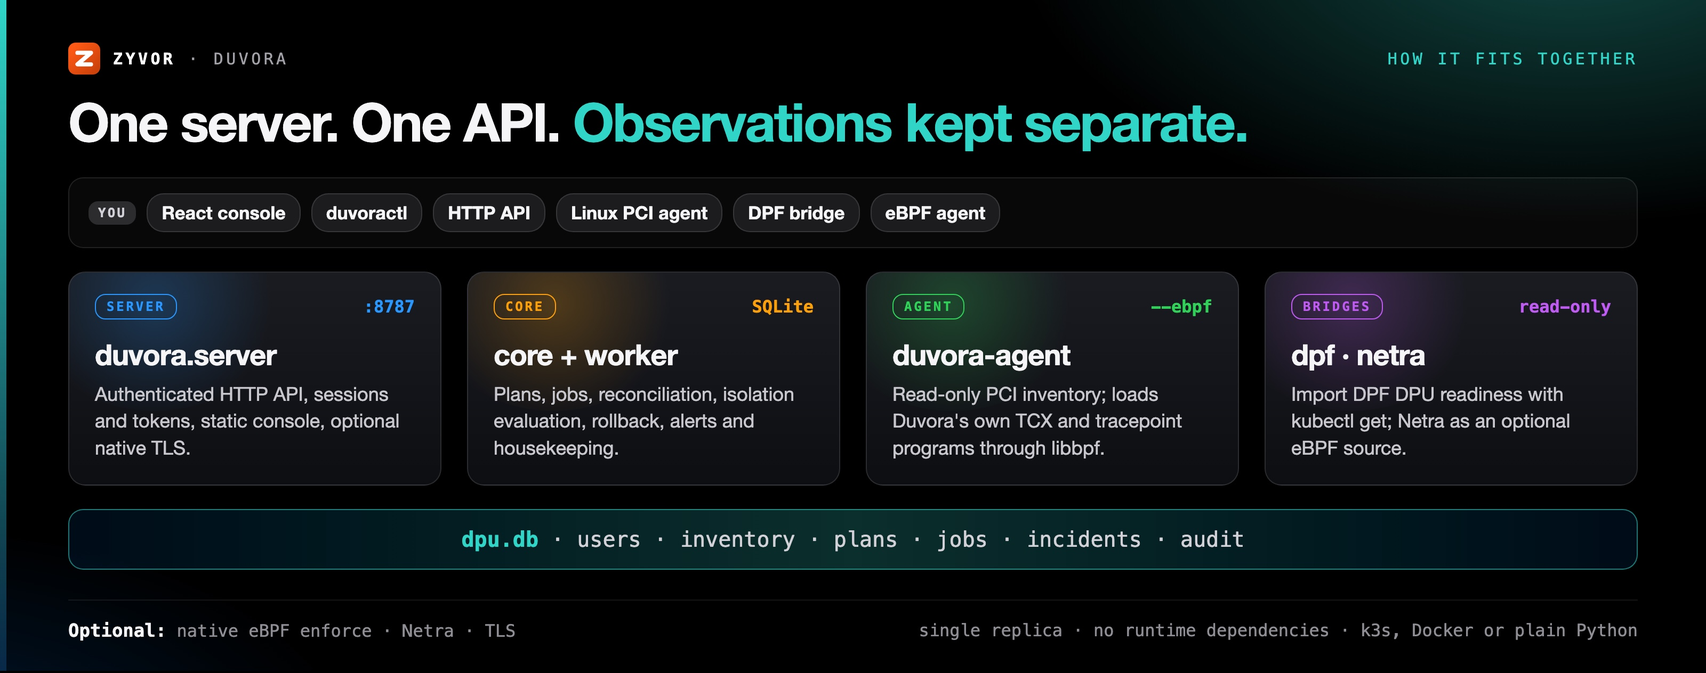
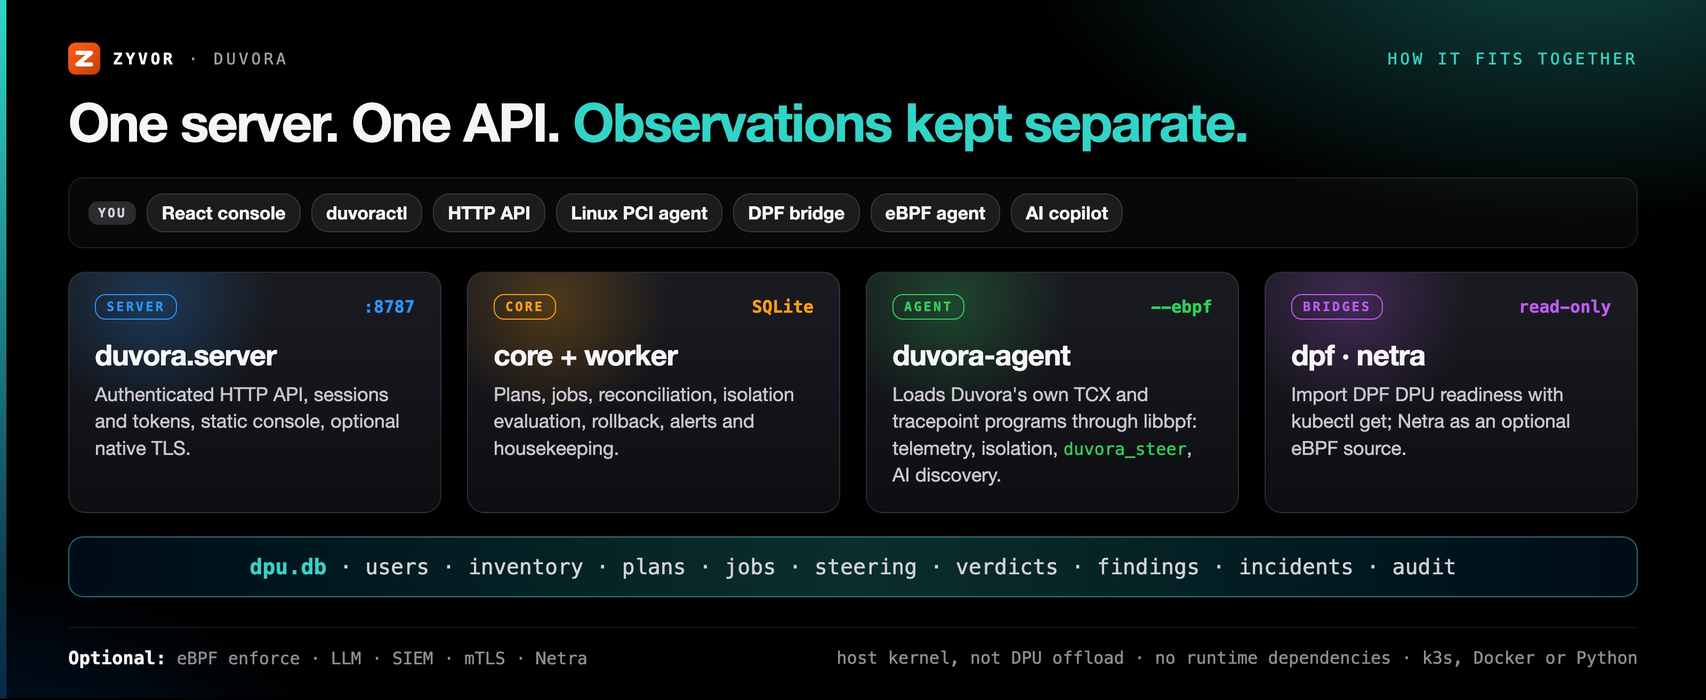
docs(readme): 0.5.0 visuals: steering, AI security, console gallery
- New cards: traffic steering pipeline and AI security (docs/ux/readme-steering, readme-ai-security).
- Capabilities card gains Steering and AI security; how-it-works shows duvora_steer, copilot and findings; hero mentions steering and AI.
- Console gallery of six demo-server screenshots, rebuilt by docs/ux/build-console-shots.cjs.
- README: Steering and AI security sections, new Why rows, mermaid with the agent, steering and copilot, quick links.

diff --git a/docs/ux/readme-steering.html b/docs/ux/readme-steering.html
@@ -1,0 +1,89 @@
+<!doctype html>
+<html lang="en">
+<head>
+<meta charset="utf-8">
+<title>Duvora: traffic steering</title>
+<!-- README card, 1600 wide at 2x. Build: ./docs/ux/build-readme-cards.sh -->
+<style>
+  :root { --acc:#30d5c8; --sans:'SF Pro Display','Helvetica Neue',Helvetica,Arial,sans-serif; --mono:'SF Mono',Menlo,Consolas,monospace; }
+  * { box-sizing:border-box; } html,body { margin:0; padding:0; }
+  body { width:1600px; min-height:400px; overflow:hidden; background:#000; color:#f5f5f7; font-family:var(--sans); position:relative; }
+  .glow { position:absolute; inset:0; background:radial-gradient(800px 420px at 92% -10%, color-mix(in srgb, var(--acc) 34%, transparent), transparent 65%),
+    radial-gradient(700px 380px at -5% 115%, rgba(0,113,227,.22), transparent 60%); }
+  .rail { position:absolute; left:0; top:0; bottom:0; width:6px; background:linear-gradient(180deg, var(--acc), rgba(41,151,255,.2)); }
+  .wrap { position:relative; padding:40px 64px 28px; }
+  .top { display:flex; align-items:center; justify-content:space-between; }
+  .brand { display:flex; align-items:center; gap:12px; font-family:var(--mono); font-size:15px; letter-spacing:.18em; text-transform:uppercase; color:#a1a1a6; }
+  .brand b { color:#fff; }
+  .kicker { font-family:var(--mono); font-size:15px; letter-spacing:.18em; text-transform:uppercase; color:var(--acc); }
+  h1 { margin:18px 0 0; font-size:50px; line-height:1.05; font-weight:800; letter-spacing:-.03em; white-space:nowrap; }
+  h1 em { font-style:normal; color:var(--acc); }
+  .foot { margin-top:28px; display:flex; justify-content:space-between; align-items:center; font-family:var(--mono); font-size:16px; color:#8e8e93; padding-top:18px; border-top:1px solid rgba(255,255,255,.08); }
+  .foot b { color:#f5f5f7; font-size:17px; }
+  .card { border-radius:16px; background:linear-gradient(180deg, rgba(28,30,36,.92), rgba(14,15,19,.95)); border:1px solid rgba(255,255,255,.12); position:relative; overflow:hidden; }
+  .tag { display:inline-block; font-family:var(--mono); font-size:12px; font-weight:700; letter-spacing:.16em; text-transform:uppercase; padding:4px 10px; border-radius:10px; border:1px solid currentColor; }
+
+  .flow { margin-top:30px; display:grid; grid-template-columns:250px 40px 380px 40px 1fr; align-items:stretch; }
+  .arrow { display:flex; align-items:center; justify-content:center; color:var(--acc); font-size:30px; font-weight:700; }
+  .box { padding:22px 24px; }
+  .box h2 { margin:14px 0 10px; font-size:26px; font-weight:700; letter-spacing:-.02em; }
+  .box p { margin:0; font-size:17px; line-height:1.4; color:#c7c7cc; }
+  .mono { font-family:var(--mono); font-size:15px; color:#d1d1d6; line-height:1.7; }
+  .rules { margin-top:6px; }
+  .rule { display:flex; gap:12px; align-items:center; padding:7px 0; border-bottom:1px solid rgba(255,255,255,.07); font-family:var(--mono); font-size:15px; color:#d1d1d6; }
+  .rule:last-child { border-bottom:0; }
+  .rule .p { color:#8e8e93; width:30px; }
+  .rule .a { margin-left:auto; font-weight:700; }
+  .lanes { display:grid; grid-template-rows:repeat(4,1fr); gap:10px; }
+  .lane { display:flex; align-items:center; gap:16px; padding:0 20px; border-radius:14px; border:1px solid color-mix(in srgb, var(--c) 45%, transparent);
+    background:linear-gradient(90deg, color-mix(in srgb, var(--c) 18%, transparent), rgba(14,15,19,.6)); }
+  .lane b { font-family:var(--mono); font-size:16px; letter-spacing:.14em; text-transform:uppercase; color:var(--c); width:92px; }
+  .lane span { font-size:17px; color:#d1d1d6; }
+  .lane .chain { margin-left:auto; font-family:var(--mono); font-size:14px; color:#f5f5f7; }
+  .lane .chain i { font-style:normal; color:var(--c); padding:0 6px; }
+
+  .life { margin-top:22px; display:grid; grid-template-columns:repeat(4,1fr); gap:20px; }
+  .step { padding:18px 22px; }
+  .step h3 { margin:12px 0 6px; font-size:22px; font-weight:700; }
+  .step p { margin:0; font-size:16px; line-height:1.4; color:#c7c7cc; }
+  .step code { display:inline-block; margin-top:10px; font-family:var(--mono); font-size:13.5px; color:var(--c); padding:4px 9px; border-radius:8px; background:rgba(255,255,255,.05); border:1px solid rgba(255,255,255,.1); }
+</style>
+</head>
+<body>
+<div class="glow"></div><div class="rail"></div>
+<div class="wrap">
+<div class="top"><div class="brand"><svg viewBox="0 0 64 64" width="30" height="30" aria-hidden="true"><defs><linearGradient id="zb" x1="8" y1="8" x2="56" y2="56" gradientUnits="userSpaceOnUse"><stop offset="0" stop-color="#ff5a15"/><stop offset="1" stop-color="#cc420a"/></linearGradient></defs><rect width="64" height="64" rx="15" fill="url(#zb)"/><path d="M18.5,20.5 45.5,20.5 18.5,43.5 45.5,43.5" fill="none" stroke="#fff" stroke-width="8.3" stroke-linecap="round" stroke-linejoin="round"/></svg><b>Zyvor</b><span>&middot;</span><span>Duvora</span></div><div class="kicker">Traffic steering</div></div>
+<h1>Every packet, one rule. <em>Shadow before it bites.</em></h1>
+
+<div class="flow">
+  <div class="card box" style="--c:#2997ff"><span class="tag" style="color:#2997ff">Packet</span><h2>On the uplink</h2>
+    <div class="mono">tcx ingress / egress<br>proto &middot; src &middot; dst<br>sport &middot; dport<br>direction</div></div>
+  <div class="arrow">&rarr;</div>
+  <div class="card box" style="--c:#30d5c8"><span class="tag" style="color:#30d5c8">duvora_steer</span><h2>First match wins</h2>
+    <div class="rules">
+      <div class="rule"><span class="p">10</span>dst 185.220.101.0/24<span class="a" style="color:#ff453a">drop</span></div>
+      <div class="rule"><span class="p">20</span>tcp dport 443 &middot; LLM SNI<span class="a" style="color:#ff9f0a">inspect</span></div>
+      <div class="rule"><span class="p">30</span>dst 10.0.0.0/8<span class="a" style="color:#30d158">allow</span></div>
+      <div class="rule"><span class="p">&mdash;</span>default<span class="a" style="color:#8e8e93">bypass</span></div>
+    </div></div>
+  <div class="arrow">&rarr;</div>
+  <div class="lanes">
+    <div class="lane" style="--c:#8e8e93"><b>Bypass</b><span>Pass untouched; upgrades bypass automatically</span></div>
+    <div class="lane" style="--c:#30d158"><b>Allow</b><span>Pass and count per rule</span></div>
+    <div class="lane" style="--c:#ff9f0a"><b>Inspect</b><span>Sample the flow</span><div class="chain">256-byte payload<i>&rarr;</i>LLM analyzer<i>&rarr;</i>findings &amp; incidents</div></div>
+    <div class="lane" style="--c:#ff453a"><b>Drop</b><span>Would-drop in shadow, dropped in enforce</span></div>
+  </div>
+</div>
+
+<div class="life">
+  <div class="card step" style="--c:#30d5c8"><span class="tag" style="color:#30d5c8">1 &middot; Plan</span><h3>Preview by replay</h3><p>Recent flows replayed against the new rule set before anything changes.</p><code>duvoractl steer SET DEVICE</code></div>
+  <div class="card step" style="--c:#64d2ff"><span class="tag" style="color:#64d2ff">2 &middot; Shadow</span><h3>Count, never block</h3><p>Verdicts and would-drop counters per rule, from the host kernel.</p><code>APPLY STEERING SHADOW</code></div>
+  <div class="card step" style="--c:#ff9f0a"><span class="tag" style="color:#ff9f0a">3 &middot; Enforce</span><h3>Leased, fail-safe</h3><p>Falls back to shadow if the lease lapses or the controller is unreachable.</p><code>ENFORCE STEERING ON &lt;dev&gt;</code></div>
+  <div class="card step" style="--c:#bf5af2"><span class="tag" style="color:#bf5af2">4 &middot; Escape</span><h3>Bypass or roll back</h3><p>One typed confirmation; rollback restores the previous set in shadow.</p><code>BYPASS &lt;dev&gt;</code></div>
+</div>
+
+<div class="foot"><b>SSH and the control plane are always exempt</b><span>host-kernel eBPF on the node &#183; simulation for modeled DPUs &#183; not DPU offload</span></div>
+</div>
+<script>document.body.setAttribute('data-h', Math.ceil(document.querySelector('.wrap').getBoundingClientRect().height));</script>
+</body>
+</html>

diff --git a/docs/ux/readme-ai-security.html b/docs/ux/readme-ai-security.html
@@ -1,0 +1,69 @@
+<!doctype html>
+<html lang="en">
+<head>
+<meta charset="utf-8">
+<title>Duvora: AI security</title>
+<!-- README card, 1600 wide at 2x. Build: ./docs/ux/build-readme-cards.sh -->
+<style>
+  :root { --acc:#ff375f; --sans:'SF Pro Display','Helvetica Neue',Helvetica,Arial,sans-serif; --mono:'SF Mono',Menlo,Consolas,monospace; }
+  * { box-sizing:border-box; } html,body { margin:0; padding:0; }
+  body { width:1600px; min-height:400px; overflow:hidden; background:#000; color:#f5f5f7; font-family:var(--sans); position:relative; }
+  .glow { position:absolute; inset:0; background:radial-gradient(800px 420px at 92% -10%, color-mix(in srgb, var(--acc) 30%, transparent), transparent 65%),
+    radial-gradient(700px 380px at -5% 115%, rgba(0,113,227,.22), transparent 60%); }
+  .rail { position:absolute; left:0; top:0; bottom:0; width:6px; background:linear-gradient(180deg, var(--acc), rgba(41,151,255,.2)); }
+  .wrap { position:relative; padding:40px 64px 28px; }
+  .top { display:flex; align-items:center; justify-content:space-between; }
+  .brand { display:flex; align-items:center; gap:12px; font-family:var(--mono); font-size:15px; letter-spacing:.18em; text-transform:uppercase; color:#a1a1a6; }
+  .brand b { color:#fff; }
+  .kicker { font-family:var(--mono); font-size:15px; letter-spacing:.18em; text-transform:uppercase; color:var(--acc); }
+  h1 { margin:18px 0 0; font-size:50px; line-height:1.05; font-weight:800; letter-spacing:-.03em; white-space:nowrap; }
+  h1 em { font-style:normal; color:var(--acc); }
+  .foot { margin-top:28px; display:flex; justify-content:space-between; align-items:center; font-family:var(--mono); font-size:16px; color:#8e8e93; padding-top:18px; border-top:1px solid rgba(255,255,255,.08); }
+  .foot b { color:#f5f5f7; font-size:17px; }
+  .card { border-radius:16px; background:linear-gradient(180deg, rgba(28,30,36,.92), rgba(14,15,19,.95)); border:1px solid rgba(255,255,255,.12); position:relative; overflow:hidden; }
+  .tag { display:inline-block; font-family:var(--mono); font-size:12px; font-weight:700; letter-spacing:.16em; text-transform:uppercase; padding:4px 10px; border-radius:10px; border:1px solid currentColor; }
+
+  .grid { margin-top:30px; display:grid; grid-template-columns:repeat(3,1fr); gap:22px; }
+  .tile { padding:22px 26px 20px; min-height:206px; }
+  .tile::before { content:''; position:absolute; right:-60px; top:-60px; width:200px; height:200px; border-radius:50%; background:radial-gradient(circle, color-mix(in srgb, var(--c) 30%, transparent), transparent 70%); }
+  .tile .row { display:flex; justify-content:space-between; align-items:center; position:relative; }
+  .tile i { font-style:normal; font-family:var(--mono); font-size:15px; color:#8e8e93; }
+  .tile h2 { margin:14px 0 8px; font-size:26px; font-weight:700; letter-spacing:-.02em; position:relative; }
+  .tile p { margin:0; font-size:17px; line-height:1.4; color:#c7c7cc; position:relative; }
+  .chips { margin-top:14px; display:flex; flex-wrap:wrap; gap:8px; position:relative; }
+  .chips span { font-family:var(--mono); font-size:13.5px; padding:4px 10px; border-radius:10px; background:color-mix(in srgb, var(--c) 14%, transparent); border:1px solid color-mix(in srgb, var(--c) 45%, transparent); color:#f5f5f7; }
+  .posture { display:flex; gap:22px; align-items:center; margin-top:10px; position:relative; }
+  .gauge { width:112px; height:112px; flex:none; }
+  .checks { font-family:var(--mono); font-size:13.5px; line-height:1.65; color:#c7c7cc; }
+  .checks b { display:inline-block; width:12px; height:12px; border-radius:50%; margin-right:8px; vertical-align:-1px; }
+</style>
+</head>
+<body>
+<div class="glow"></div><div class="rail"></div>
+<div class="wrap">
+<div class="top"><div class="brand"><svg viewBox="0 0 64 64" width="30" height="30" aria-hidden="true"><defs><linearGradient id="zb" x1="8" y1="8" x2="56" y2="56" gradientUnits="userSpaceOnUse"><stop offset="0" stop-color="#ff5a15"/><stop offset="1" stop-color="#cc420a"/></linearGradient></defs><rect width="64" height="64" rx="15" fill="url(#zb)"/><path d="M18.5,20.5 45.5,20.5 18.5,43.5 45.5,43.5" fill="none" stroke="#fff" stroke-width="8.3" stroke-linecap="round" stroke-linejoin="round"/></svg><b>Zyvor</b><span>&middot;</span><span>Duvora</span></div><div class="kicker">AI security</div></div>
+<h1>See what talks to models. <em>AI drafts, you apply.</em></h1>
+
+<div class="grid">
+  <div class="card tile" style="--c:#ff375f"><div class="row"><span class="tag" style="color:#ff375f">AI traffic</span><i>inspect rules</i></div><h2>Prompts under watch</h2><p>LLM endpoints by SNI and Host; findings open incidents. Snippets are redacted before storage.</p>
+    <div class="chips"><span>prompt injection</span><span>secrets</span><span>personal data</span></div></div>
+  <div class="card tile" style="--c:#ff9f0a"><div class="row"><span class="tag" style="color:#ff9f0a">Shadow AI</span><i>agent discovery</i></div><h2>Every AI service, found</h2><p>Inference servers, notebooks and GPU workloads on each node; sanction what you expect.</p>
+    <div class="chips"><span>ollama</span><span>vLLM</span><span>Triton</span><span>Jupyter</span></div></div>
+  <div class="card tile" style="--c:#64d2ff"><div class="row"><span class="tag" style="color:#64d2ff">Artifact scans</span><i>deploy gate</i></div><h2>Images and models</h2><p>Code-importing pickles, Keras Lambda layers, embedded secrets, risky image config; deploys can require a pass.</p>
+    <div class="chips"><span>--image</span><span>--model-url</span><span>--file offline</span></div></div>
+  <div class="card tile" style="--c:#bf5af2"><div class="row"><span class="tag" style="color:#bf5af2">Threat intel</span><i>feeds</i></div><h2>Known bad, matched</h2><p>IP, CIDR and domain indicators matched against flows; export a ruleset to steer on.</p>
+    <div class="chips"><span>plain</span><span>CSV</span><span>STIX</span><span>URL or inline</span></div></div>
+  <div class="card tile" style="--c:#30d158"><div class="row"><span class="tag" style="color:#30d158">Playbooks</span><i>draft only</i></div><h2>Ready, never automatic</h2><p>Incidents explain, draft a block or bypass plan and notify; an admin reviews and confirms.</p>
+    <div class="chips"><span>incident</span><span>&rarr; draft plan</span><span>&rarr; human apply</span></div></div>
+  <div class="card tile" style="--c:#2997ff"><div class="row"><span class="tag" style="color:#2997ff">AI posture</span><i>0&ndash;100</i></div>
+    <div class="posture">
+      <svg class="gauge" viewBox="0 0 120 120"><circle cx="60" cy="60" r="50" fill="none" stroke="rgba(255,255,255,.1)" stroke-width="12"/><circle cx="60" cy="60" r="50" fill="none" stroke="#2997ff" stroke-width="12" stroke-linecap="round" stroke-dasharray="267 314" transform="rotate(-90 60 60)"/><text x="60" y="68" text-anchor="middle" font-family="SF Pro Display,Helvetica,Arial" font-size="32" font-weight="800" fill="#fff">85</text></svg>
+      <div class="checks"><div><b style="background:#30d158"></b>Inspection coverage</div><div><b style="background:#30d158"></b>LLM findings 24 h</div><div><b style="background:#ff9f0a"></b>Shadow AI</div><div><b style="background:#30d158"></b>Artifact scans 7 d</div><div><b style="background:#30d158"></b>Threat intel</div><div><b style="background:#30d158"></b>Agent identity</div></div>
+    </div></div>
+</div>
+
+<div class="foot"><b>Copilot over any OpenAI-compatible model</b><span>read-only tools &#183; drafts plans, never applies &#183; works without an LLM</span></div>
+</div>
+<script>document.body.setAttribute('data-h', Math.ceil(document.querySelector('.wrap').getBoundingClientRect().height));</script>
+</body>
+</html>

diff --git a/docs/ux/readme-capabilities.html b/docs/ux/readme-capabilities.html
@@ -23,7 +23,7 @@
   .card { border-radius:16px; background:linear-gradient(180deg, rgba(28,30,36,.92), rgba(14,15,19,.95)); border:1px solid rgba(255,255,255,.12); position:relative; overflow:hidden; }
   .tag { display:inline-block; font-family:var(--mono); font-size:12px; font-weight:700; letter-spacing:.16em; text-transform:uppercase; padding:4px 10px; border-radius:10px; border:1px solid currentColor; }
 
-  .caps { margin-top:30px; display:grid; grid-template-columns:repeat(4,1fr); gap:24px; }
+  .caps { margin-top:30px; display:grid; grid-template-columns:repeat(3,1fr); gap:24px; }
   .cap { padding:24px 26px 18px; }
   .cap::before { content:''; position:absolute; right:-60px; top:-60px; width:200px; height:200px; border-radius:50%; background:radial-gradient(circle, color-mix(in srgb, var(--c) 30%, transparent), transparent 70%); }
   .cap h2 { margin:16px 0 14px; font-size:27px; font-weight:700; letter-spacing:-.02em; }
@@ -36,7 +36,7 @@
 <body>
 <div class="glow"></div><div class="rail"></div>
 <div class="wrap">
-<div class="top"><div class="brand"><svg viewBox="0 0 64 64" width="30" height="30" aria-hidden="true"><defs><linearGradient id="zb" x1="8" y1="8" x2="56" y2="56" gradientUnits="userSpaceOnUse"><stop offset="0" stop-color="#ff5a15"/><stop offset="1" stop-color="#cc420a"/></linearGradient></defs><rect width="64" height="64" rx="15" fill="url(#zb)"/><path d="M18.5,20.5 45.5,20.5 18.5,43.5 45.5,43.5" fill="none" stroke="#fff" stroke-width="8.3" stroke-linecap="round" stroke-linejoin="round"/></svg><b>Zyvor</b><span>&middot;</span><span>Duvora</span></div><div class="kicker">Capabilities at a glance</div></div><h1>Plan it. Isolate it. <em>Prove every change.</em></h1><div class="caps"><div class="card cap" style="--c:#2997ff"><span class="tag" style="color:#2997ff">Inventory</span><h2>DPU fleet</h2><ul><li>Four simulated BlueField DPUs</li><li>Read-only Linux PCI discovery</li><li>Read-only NVIDIA DPF import</li><li>Topology and readiness</li><li>Telemetry history 1h / 24h / 7d</li></ul></div><div class="card cap" style="--c:#ff9f0a"><span class="tag" style="color:#ff9f0a">Change</span><h2>Plan, apply, roll back</h2><ul><li>Expiring, actor-bound plans</li><li>Idempotent apply, revision checks</li><li>Typed confirmations</li><li>Rollback with revision guard</li><li>Job progress survives restart</li></ul></div><div class="card cap" style="--c:#30d158"><span class="tag" style="color:#30d158">eBPF</span><h2>Native agent</h2><ul><li>TCX throughput and top talkers</li><li>Kernel drop reasons</li><li>TCP retransmits and resets</li><li>Shadow and leased enforce</li><li>Kill switch, local override</li></ul></div><div class="card cap" style="--c:#bf5af2"><span class="tag" style="color:#bf5af2">Govern</span><h2>Evidence built in</h2><ul><li>Audit trail and JSON evidence</li><li>Incidents and alert rules</li><li>Scorecard and shift briefing</li><li>Admin / viewer users, tokens</li><li>Online SQLite backup</li></ul></div></div><div class="foot"><b>github.com/zyvorai/zyvor-duvora</b><span>Python 3.11+ &#183; SQLite &#183; React + Vite &#183; libbpf &#183; Helm</span></div>
+<div class="top"><div class="brand"><svg viewBox="0 0 64 64" width="30" height="30" aria-hidden="true"><defs><linearGradient id="zb" x1="8" y1="8" x2="56" y2="56" gradientUnits="userSpaceOnUse"><stop offset="0" stop-color="#ff5a15"/><stop offset="1" stop-color="#cc420a"/></linearGradient></defs><rect width="64" height="64" rx="15" fill="url(#zb)"/><path d="M18.5,20.5 45.5,20.5 18.5,43.5 45.5,43.5" fill="none" stroke="#fff" stroke-width="8.3" stroke-linecap="round" stroke-linejoin="round"/></svg><b>Zyvor</b><span>&middot;</span><span>Duvora</span></div><div class="kicker">Capabilities at a glance</div></div><h1>Plan it. Steer it. <em>Prove every change.</em></h1><div class="caps"><div class="card cap" style="--c:#2997ff"><span class="tag" style="color:#2997ff">Inventory</span><h2>DPU fleet</h2><ul><li>Four simulated BlueField DPUs</li><li>Read-only Linux PCI discovery</li><li>Read-only NVIDIA DPF import</li><li>Topology and readiness</li><li>Telemetry history 1h / 24h / 7d</li></ul></div><div class="card cap" style="--c:#ff9f0a"><span class="tag" style="color:#ff9f0a">Change</span><h2>Plan, apply, roll back</h2><ul><li>Expiring, actor-bound plans</li><li>Idempotent apply, revision checks</li><li>Typed confirmations</li><li>Rollback with revision guard</li><li>Job progress survives restart</li></ul></div><div class="card cap" style="--c:#30d158"><span class="tag" style="color:#30d158">eBPF</span><h2>Native agent</h2><ul><li>TCX throughput and top talkers</li><li>Kernel drop reasons</li><li>TCP retransmits and resets</li><li>Shadow and leased enforce</li><li>Kill switch, local override</li></ul></div><div class="card cap" style="--c:#bf5af2"><span class="tag" style="color:#bf5af2">Govern</span><h2>Evidence built in</h2><ul><li>Audit trail and JSON evidence</li><li>Incidents and alert rules</li><li>Scorecard and shift briefing</li><li>Admin / viewer users, tokens</li><li>Online SQLite backup</li></ul></div><div class="card cap" style="--c:#30d5c8"><span class="tag" style="color:#30d5c8">Steering</span><h2>Decide what is inspected</h2><ul><li>Ordered 5-tuple rules, 1,000 per set</li><li>Bypass, allow, inspect, drop</li><li>Shadow first, leased enforce</li><li>Bypass on demand, verdicts, flow replay</li><li>Rollback restores the previous set</li></ul></div><div class="card cap" style="--c:#ff375f"><span class="tag" style="color:#ff375f">AI security</span><h2>See what talks to models</h2><ul><li>Prompt injection, secrets, personal data</li><li>Shadow-AI asset discovery</li><li>Image and model artifact scans</li><li>Threat intel, draft-only playbooks</li><li>Copilot drafts plans, never applies</li></ul></div></div><div class="foot"><b>github.com/zyvorai/zyvor-duvora</b><span>Python 3.11+ &#183; SQLite &#183; React + Vite &#183; libbpf &#183; Helm</span></div>
 </div>
 <script>document.body.setAttribute('data-h', Math.ceil(document.querySelector('.wrap').getBoundingClientRect().height));</script>
 </body>

diff --git a/docs/ux/readme-how-it-works.html b/docs/ux/readme-how-it-works.html
@@ -41,7 +41,7 @@
 <body>
 <div class="glow"></div><div class="rail"></div>
 <div class="wrap">
-<div class="top"><div class="brand"><svg viewBox="0 0 64 64" width="30" height="30" aria-hidden="true"><defs><linearGradient id="zb" x1="8" y1="8" x2="56" y2="56" gradientUnits="userSpaceOnUse"><stop offset="0" stop-color="#ff5a15"/><stop offset="1" stop-color="#cc420a"/></linearGradient></defs><rect width="64" height="64" rx="15" fill="url(#zb)"/><path d="M18.5,20.5 45.5,20.5 18.5,43.5 45.5,43.5" fill="none" stroke="#fff" stroke-width="8.3" stroke-linecap="round" stroke-linejoin="round"/></svg><b>Zyvor</b><span>&middot;</span><span>Duvora</span></div><div class="kicker">How it fits together</div></div><h1>One server. One API. <em>Observations kept separate.</em></h1><div class="you"><b>YOU</b><span>React console</span><span>duvoractl</span><span>HTTP API</span><span>Linux PCI agent</span><span>DPF bridge</span><span>eBPF agent</span></div><div class="comps" style="grid-template-columns:repeat(4,1fr)"><div class="card comp" style="--c:#2997ff"><div class="row"><span class="tag" style="color:#2997ff">Server</span><i style="color:#2997ff">:8787</i></div><h2>duvora.server</h2><p>Authenticated HTTP API, sessions and tokens, static console, optional native TLS.</p></div><div class="card comp" style="--c:#ff9f0a"><div class="row"><span class="tag" style="color:#ff9f0a">Core</span><i style="color:#ff9f0a">SQLite</i></div><h2>core + worker</h2><p>Plans, jobs, reconciliation, isolation evaluation, rollback, alerts and housekeeping.</p></div><div class="card comp" style="--c:#30d158"><div class="row"><span class="tag" style="color:#30d158">Agent</span><i style="color:#30d158">--ebpf</i></div><h2>duvora-agent</h2><p>Read-only PCI inventory; loads Duvora&#x27;s own TCX and tracepoint programs through libbpf.</p></div><div class="card comp" style="--c:#bf5af2"><div class="row"><span class="tag" style="color:#bf5af2">Bridges</span><i style="color:#bf5af2">read-only</i></div><h2>dpf &#183; netra</h2><p>Import DPF DPU readiness with kubectl get; Netra as an optional eBPF source.</p></div></div><div class="base"><b>dpu.db</b> &middot; users &middot; inventory &middot; plans &middot; jobs &middot; incidents &middot; audit</div><div class="foot"><span><b style="color:#f5f5f7">Optional:</b> native eBPF enforce &#183; Netra &#183; TLS</span><span>single replica &#183; no runtime dependencies &#183; k3s, Docker or plain Python</span></div>
+<div class="top"><div class="brand"><svg viewBox="0 0 64 64" width="30" height="30" aria-hidden="true"><defs><linearGradient id="zb" x1="8" y1="8" x2="56" y2="56" gradientUnits="userSpaceOnUse"><stop offset="0" stop-color="#ff5a15"/><stop offset="1" stop-color="#cc420a"/></linearGradient></defs><rect width="64" height="64" rx="15" fill="url(#zb)"/><path d="M18.5,20.5 45.5,20.5 18.5,43.5 45.5,43.5" fill="none" stroke="#fff" stroke-width="8.3" stroke-linecap="round" stroke-linejoin="round"/></svg><b>Zyvor</b><span>&middot;</span><span>Duvora</span></div><div class="kicker">How it fits together</div></div><h1>One server. One API. <em>Observations kept separate.</em></h1><div class="you"><b>YOU</b><span>React console</span><span>duvoractl</span><span>HTTP API</span><span>Linux PCI agent</span><span>DPF bridge</span><span>eBPF agent</span><span>AI copilot</span></div><div class="comps" style="grid-template-columns:repeat(4,1fr)"><div class="card comp" style="--c:#2997ff"><div class="row"><span class="tag" style="color:#2997ff">Server</span><i style="color:#2997ff">:8787</i></div><h2>duvora.server</h2><p>Authenticated HTTP API, sessions and tokens, static console, optional native TLS.</p></div><div class="card comp" style="--c:#ff9f0a"><div class="row"><span class="tag" style="color:#ff9f0a">Core</span><i style="color:#ff9f0a">SQLite</i></div><h2>core + worker</h2><p>Plans, jobs, reconciliation, isolation evaluation, rollback, alerts and housekeeping.</p></div><div class="card comp" style="--c:#30d158"><div class="row"><span class="tag" style="color:#30d158">Agent</span><i style="color:#30d158">--ebpf</i></div><h2>duvora-agent</h2><p>Loads Duvora&#x27;s own TCX and tracepoint programs through libbpf: telemetry, isolation, <code style="font-family:var(--mono);font-size:16px;color:#30d158">duvora_steer</code>, AI discovery.</p></div><div class="card comp" style="--c:#bf5af2"><div class="row"><span class="tag" style="color:#bf5af2">Bridges</span><i style="color:#bf5af2">read-only</i></div><h2>dpf &#183; netra</h2><p>Import DPF DPU readiness with kubectl get; Netra as an optional eBPF source.</p></div></div><div class="base"><b>dpu.db</b> &middot; users &middot; inventory &middot; plans &middot; jobs &middot; steering &middot; verdicts &middot; findings &middot; incidents &middot; audit</div><div class="foot"><span><b style="color:#f5f5f7">Optional:</b> eBPF enforce &#183; LLM &#183; SIEM &#183; mTLS &#183; Netra</span><span>host kernel, not DPU offload &#183; no runtime dependencies &#183; k3s, Docker or Python</span></div>
 </div>
 <script>document.body.setAttribute('data-h', Math.ceil(document.querySelector('.wrap').getBoundingClientRect().height));</script>
 </body>

diff --git a/docs/social/duvora-hero-dark.html b/docs/social/duvora-hero-dark.html
@@ -26,8 +26,9 @@
   .tag em { font-style:normal; color:var(--signal); }
   .lede { margin:12px 0 0; font-size:18px; line-height:1.45; color:#b8b8bf; width:520px; text-shadow:0 1px 12px #000; }
   .stats { margin-top:24px; display:flex; gap:32px; }
+  .stat { min-width:92px; }
   .stat b { display:block; font-size:34px; font-weight:800; letter-spacing:-.03em; color:#fff; }
-  .stat span { font-family:var(--mono); font-size:12px; letter-spacing:.12em; text-transform:uppercase; color:#8e8e93; }
+  .stat span { white-space:nowrap; font-family:var(--mono); font-size:12px; letter-spacing:.12em; text-transform:uppercase; color:#8e8e93; }
   .pill { position:absolute; left:60px; bottom:40px; display:flex; gap:10px; z-index:3; }
   .pill span { font-family:var(--mono); font-size:13.5px; font-weight:700; padding:7px 13px; border-radius:18px; border:1.5px solid rgba(255,255,255,.2); color:#e5e5ea; background:rgba(0,0,0,.6); }
   .pill span.b { background:var(--blue); border-color:var(--blue); color:#fff; box-shadow:0 0 24px rgba(0,113,227,.55); }
@@ -52,8 +53,8 @@
   <div class="brand"><svg viewBox="0 0 64 64" width="30" height="30" aria-hidden="true"><defs><linearGradient id="zb" x1="8" y1="8" x2="56" y2="56" gradientUnits="userSpaceOnUse"><stop offset="0" stop-color="#ff5a15"/><stop offset="1" stop-color="#cc420a"/></linearGradient></defs><rect width="64" height="64" rx="15" fill="url(#zb)"/><path d="M18.5,20.5 45.5,20.5 18.5,43.5 45.5,43.5" fill="none" stroke="#fff" stroke-width="8.3" stroke-linecap="round" stroke-linejoin="round"/></svg><b>Zyvor</b><span>&middot;</span><span>DPU fleet control plane</span></div>
   <div class="word">Duvora</div>
   <div class="tag">Plans, isolation, evidence.<br><em>In your control.</em></div>
-  <div class="lede">One server, API, CLI, and console for DPU inventory, service plans, tenant isolation, telemetry, incidents, and change evidence.</div>
-  <div class="stats"><div class="stat"><b>0</b><span>runtime deps</span></div><div class="stat"><b>4</b><span>simulated DPUs</span></div><div class="stat"><b>eBPF</b><span>native agent</span></div></div>
+  <div class="lede">One server, API, CLI, and console for DPU inventory, service plans, tenant isolation, traffic steering, AI security, incidents, and change evidence.</div>
+  <div class="stats"><div class="stat"><b>0</b><span>runtime deps</span></div><div class="stat"><b>4</b><span>simulated DPUs</span></div><div class="stat"><b>eBPF</b><span>steering</span></div><div class="stat"><b>AI</b><span>copilot</span></div></div>
 </div>
 <div class="pill"><span class="b">github.com/zyvorai/zyvor-duvora</span><span>Apache-2.0</span></div>
 <script>

diff --git a/README.md b/README.md
@@ -18,9 +18,9 @@
 
 **One server, one API, one CLI and one console for DPU inventory, service plans, tenant isolation models, operational telemetry, incidents and change evidence.** A native eBPF agent adds kernel telemetry and node isolation in shadow or leased enforce mode, and the whole workflow runs on four simulated BlueField devices before you touch hardware.
 
-**Zero runtime dependencies** · **4 simulated BlueField DPUs** · **Native eBPF agent** · **Shadow before enforce** · **Audit trail for every change**
+**Zero runtime dependencies** · **4 simulated BlueField DPUs** · **Native eBPF agent** · **Traffic steering** · **AI security** · **Shadow before enforce**
 
-[**Quickstart**](#quickstart) · [**Deploy**](#deploy) · [**API**](docs/API.md) · [**Operations**](docs/OPERATIONS.md) · [**Status**](docs/STATUS.md) · [**License**](#license-and-support)
+[**Quickstart**](#quickstart) · [**Steering**](docs/STEERING.md) · [**AI**](docs/AI.md) · [**Deploy**](#deploy) · [**API**](docs/API.md) · [**Operations**](docs/OPERATIONS.md) · [**Status**](docs/STATUS.md) · [**License**](#license-and-support)
 
 </div>
 
@@ -55,8 +55,24 @@ Full history: [CHANGELOG.md](CHANGELOG.md).
 | You need node isolation but cannot risk cutting off SSH or the controller | Shadow first, enforce only after a shadow run of the same allow-list, leased enforcement, a kill switch, an agent fail-safe and a local override file |
 | Kernel telemetry means running another vendor's agent on every node | Duvora's own TCX and tracepoint programs, loaded by the agent through libbpf, with Netra as an optional alternative source |
 | Hardware facts live in a dozen places | Read-only Linux PCI discovery and a read-only NVIDIA DPF import that can never overwrite simulator identities or grant enforcement |
+| You need to inspect or block traffic per node, without waiting for a DPU offload project | Ordered steering rules in the host kernel (`duvora_steer`): shadow verdicts first, leased enforce, bypass on demand, rollback to the previous rule set |
+| Prompts, keys and customer data flow to LLM APIs and nobody notices | LLM traffic inspection, shadow-AI discovery, artifact scans and an AI posture score; playbooks draft the block plan, a human applies it |
 
-![Capabilities at a glance: Inventory, Change, eBPF, Govern](docs/ux/readme-capabilities.jpg)
+![Capabilities at a glance: Inventory, Change, eBPF, Govern, Steering, AI security](docs/ux/readme-capabilities.jpg)
+
+---
+
+## Traffic steering
+
+![Traffic steering: first-match rules, four outcomes, shadow before enforce](docs/ux/readme-steering.jpg)
+
+A rule set is an ordered list of 5-tuple rules (up to 1,000), each ending in **bypass**, **allow**, **inspect** or **drop**, with a default for unmatched traffic. A `steer` plan replays recent flows against the new set before anything changes. Shadow counts verdicts and would-drops per rule; enforce is leased and falls back to shadow on its own. SSH and the control plane are always exempt, `BYPASS <device>` takes a node out of the path, and rollback restores the previous set in shadow. On agent nodes it runs in the host kernel as `duvora_steer` (TCX); on modeled DPUs it runs in simulation. It is not DPU offload. [Steering guide →](docs/STEERING.md)
+
+## AI security
+
+![AI security: AI traffic, shadow AI, artifact scans, threat intel, draft-only playbooks, AI posture](docs/ux/readme-ai-security.jpg)
+
+Steering's **inspect** action samples the start of each flow. The analyzer classifies LLM providers and self-hosted inference servers, flags prompt injection, secrets and personal data, and opens incidents with redacted snippets. Around it: shadow-AI discovery on every node, image and model scans that can gate deploys, threat-intel feeds you can turn into a drop rule set, playbooks that **draft** plans, and an AI posture score in the shift briefing. The optional copilot answers fleet questions with read-only tools and never applies a change. [AI guide →](docs/AI.md)
 
 ---
 
@@ -87,10 +103,14 @@ Duvora is not a DPF replacement: it reads DPF's DPU objects and adds the operato
 flowchart TD
     Console["React console"] --> API["Authenticated HTTP API"]
     CLI["duvoractl"] --> API
-    Agent["Linux PCI / DPF bridges"] --> API
+    Bridges["Linux PCI / DPF bridges"] --> API
+    Agent["duvora-agent (eBPF)"] -->|"telemetry, verdicts, payload samples"| API
+    API -->|"isolation and steering rules"| Agent
+    Agent --> Steer["duvora_steer + duvora_nodeiso (host kernel)"]
+    Copilot["Copilot (optional LLM)"] -->|"read-only tools, draft plans"| API
     API --> Store["SQLite state and audit"]
-    Worker["Reconciler, alerts, housekeeping"] --> Store
-    Store --> Model["Users, inventory, plans, jobs, incidents"]
+    Worker["Reconciler, alerts, AI analysis, playbooks"] --> Store
+    Store --> Model["Users, inventory, plans, jobs, steering, findings, incidents"]
 ```
 
 The control plane keeps observations separate from simulated desired state. Physical reports cannot overwrite simulator identities or grant enforcement capabilities. Plans bind to their creator, expire in five minutes, and capture device revisions. Apply is idempotent and refuses conflicting jobs. Job progress survives restart; rollback refuses to overwrite later device changes.
@@ -130,6 +150,25 @@ The console uses the Zyvor Netra design language — the same sign-in screen, me
 **Ask copilot** (bottom right) answers questions about the fleet when a language model is configured.
 
 Select a device in **DPU fleet**, open **Isolation**, create a policy, preview it, and apply the simulation. Watch the job complete in **Operations**. Test an allowed and denied destination, then roll back the job. Viewers see everything with write controls disabled.
+
+### See the console
+
+<table>
+<tr>
+<td width="50%"><img src="docs/ux/console-overview.jpg" alt="Overview: fleet pulse, DPU fleet and active incidents" width="100%"><br><sub><b>Overview</b>: fleet pulse, devices and active incidents</sub></td>
+<td width="50%"><img src="docs/ux/console-steering.jpg" alt="Steering: rule sets, packets inspected, would-drop counters and a rule test" width="100%"><br><sub><b>Steering</b>: rule sets, shadow verdicts and "which rule wins?"</sub></td>
+</tr>
+<tr>
+<td><img src="docs/ux/console-ai-traffic.jpg" alt="AI traffic: LLM endpoints, prompt-injection findings and inspection coverage" width="100%"><br><sub><b>AI traffic</b>: LLM endpoints, findings and inspection coverage</sub></td>
+<td><img src="docs/ux/console-threats.jpg" alt="Threats: threat-intel matches, feeds and artifact scans" width="100%"><br><sub><b>Threats</b>: intel matches, feeds and artifact scans</sub></td>
+</tr>
+<tr>
+<td><img src="docs/ux/console-report.jpg" alt="Report: shift briefing with AI posture checks" width="100%"><br><sub><b>Report</b>: shift briefing with the AI posture score</sub></td>
+<td><img src="docs/ux/console-services.jpg" alt="Services: deployed services and per-device resource headroom" width="100%"><br><sub><b>Services</b>: deployments and resource headroom</sub></td>
+</tr>
+</table>
+
+Screenshots come from the demo server; regenerate them with `node docs/ux/build-console-shots.cjs`, and the cards with `./docs/ux/build-readme-cards.sh`.
 
 ## CLI
 
@@ -213,7 +252,7 @@ node tests/e2e.cjs                    # Playwright workflow against a running de
 | `helm/duvora`, `scripts/deploy-*.sh` | Helm chart and remote deploy |
 | `tests/` | Unit, HTTP integration, browser workflow suite |
 | `deploy/` | Plain Kubernetes and DPF observer RBAC templates |
-| `docs/` | Plan, limits, integration, API, operations, validation |
+| `docs/` | Plan, limits, integration, API, operations, steering, AI, validation; README cards and screenshots in `docs/ux/` and `docs/social/` |
 
 ---
 
